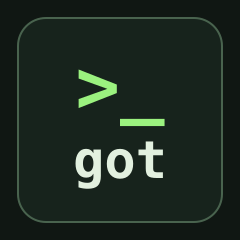
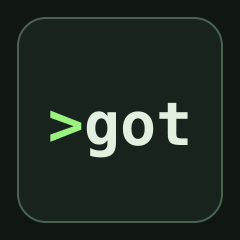
Update Product Hunt thumbnail wordmark

Changed region(s): [[0.2042, 0.4083, 0.7875, 0.7875], [0.3208, 0.2917, 0.4958, 0.4667]]

diff --git a/.github/product-hunt-launch-content.md b/.github/product-hunt-launch-content.md
@@ -99,7 +99,7 @@ its editable source is `.github/product-hunt-assets/ph-thumbnail.svg`.
 
 | Filename | Size / format | Exact brief and on-image text | Alt text |
 |---|---|---|---|
-| `ph-thumbnail.png` | 240x240 square PNG; static | Simple high-contrast `got` wordmark with a small terminal cursor. No tagline, tiny text, or extra badges. | `The got wordmark with a terminal cursor.` |
+| `ph-thumbnail.png` | 240x240 square PNG; static | Simple high-contrast `>got` wordmark with a green terminal prompt mark. No tagline, tiny text, or extra badges. | `The got wordmark preceded by a green terminal prompt.` |
 | `ph-01-hero.png` | 1270x760 PNG | First gallery image. Real terminal crop showing the `got checkout ... clang` command. Overlay: `One folder. A normal Git repo.` Keep command legible; no time or percentage claims. | `Terminal showing got starting a path-focused checkout of the clang directory.` |
 | `ph-02-how-it-works.png` | 1270x760 PNG | Three-step diagram: `Choose a repo path` -> `got sets up shallow and sparse checkout` -> `Keep using Git`. Label the middle result `focused working tree`; do not say only selected blobs are transferred. | `Diagram of choosing a repository path, creating a focused working tree, and continuing with Git.` |
 | `ph-03-git-workflow.png` | 1270x760 PNG | Actual terminal or clean code card with `got status`, `got add .`, `got commit -m "Update API"`, and `got push`. Do not show a fabricated result or imply automatic staging. | `The got status, add, commit, and push commands shown in a terminal.` |
